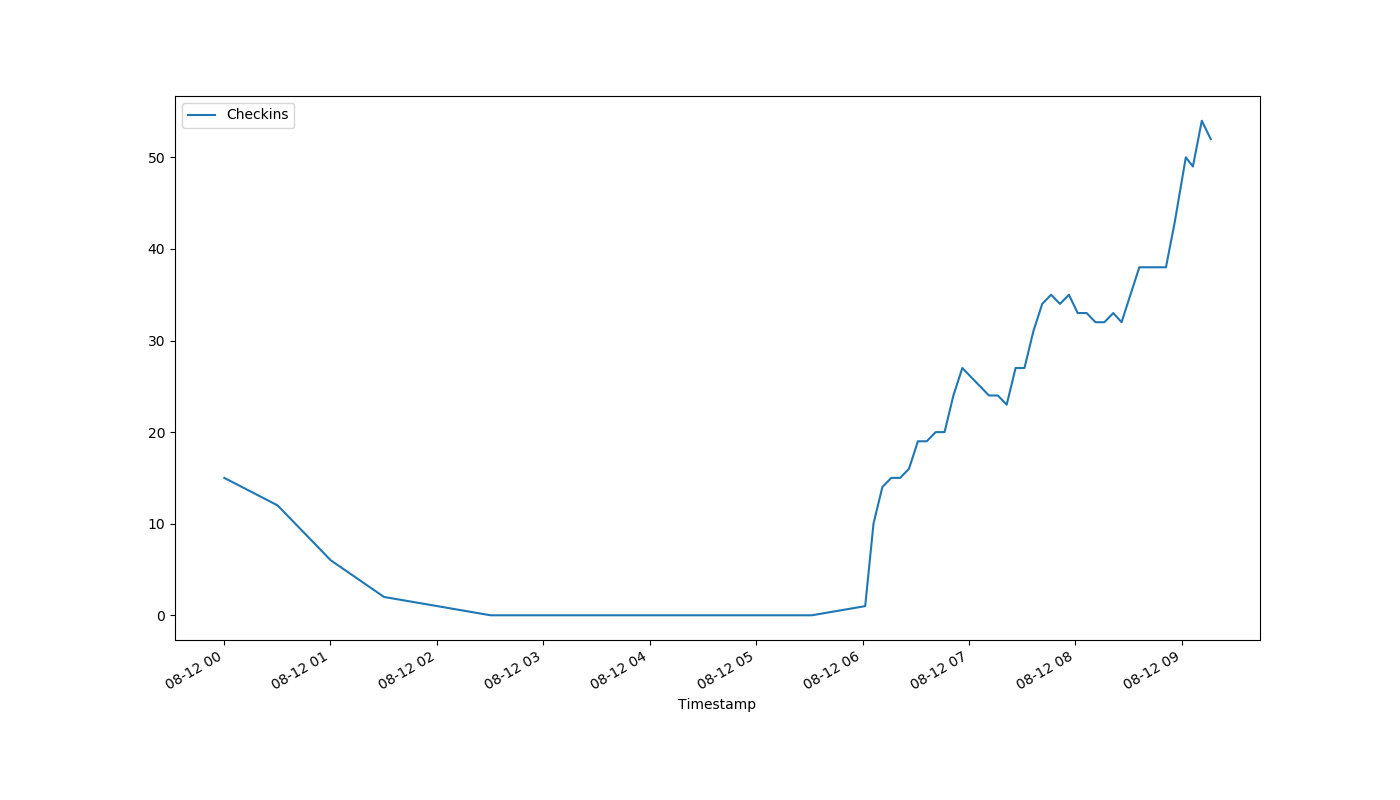
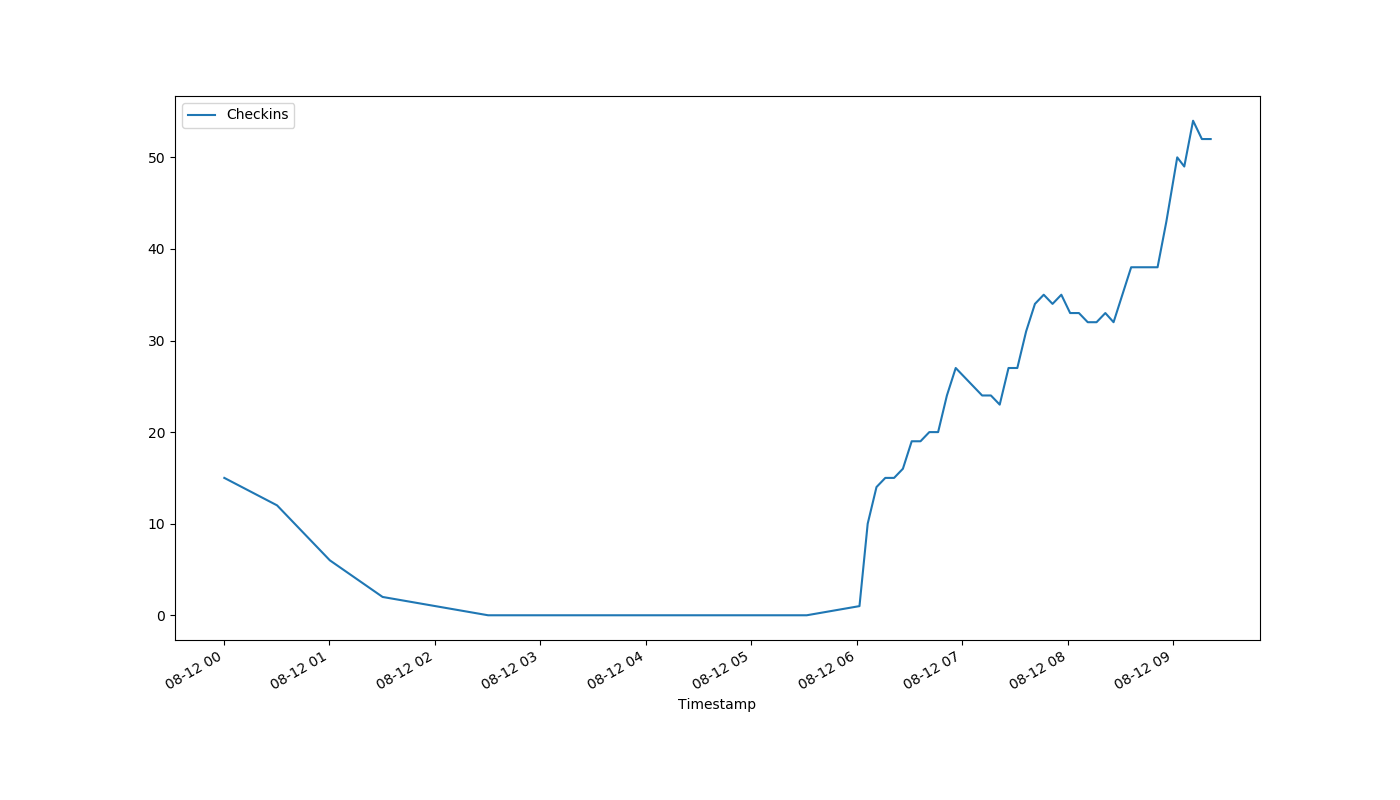
auto-Aug-12-09:22:37

diff --git a/index.html b/index.html
@@ -1,1 +1,1 @@
-<!DOCTYPE html><html><head><meta http-equiv="refresh" content="30"><link rel='stylesheet' href='holmcurrent.css'></head><body><p id='count'>52</p><div id='graph-wrap'><img id='graph' src='holmgraph-Aug-12.png'></div><p id='updated'>Last updated 09:16:17 / 09:16:13</p></body></html>
+<!DOCTYPE html><html><head><meta http-equiv="refresh" content="30"><link rel='stylesheet' href='holmcurrent.css'></head><body><p id='count'>52</p><div id='graph-wrap'><img id='graph' src='holmgraph-Aug-12.png'></div><p id='updated'>Last updated 09:21:17 / 09:21:14</p></body></html>
